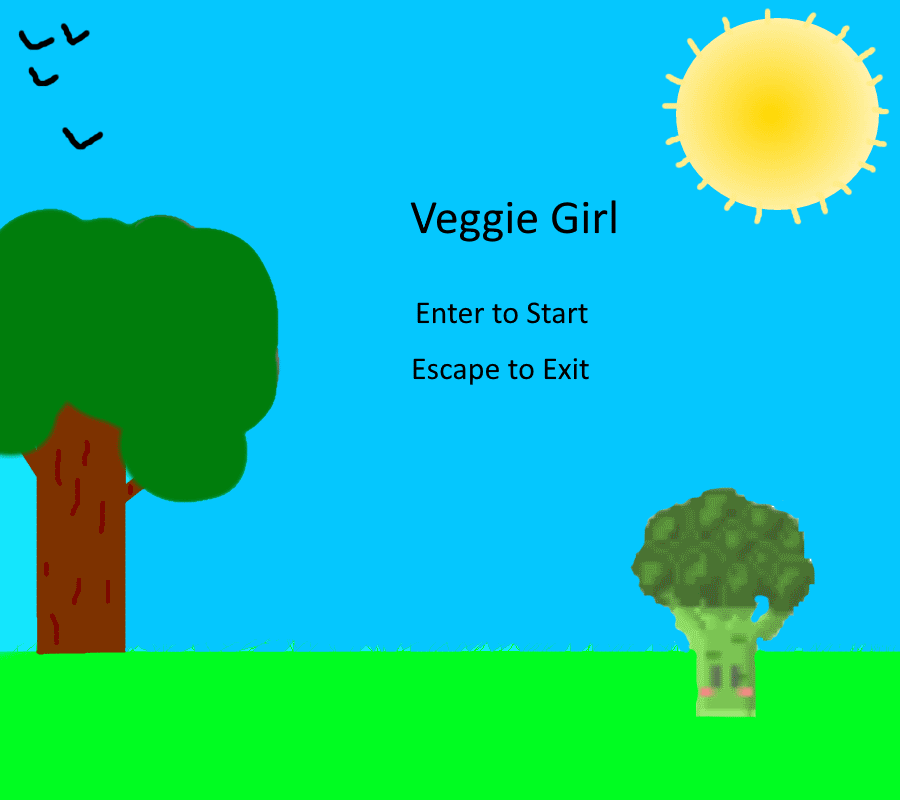
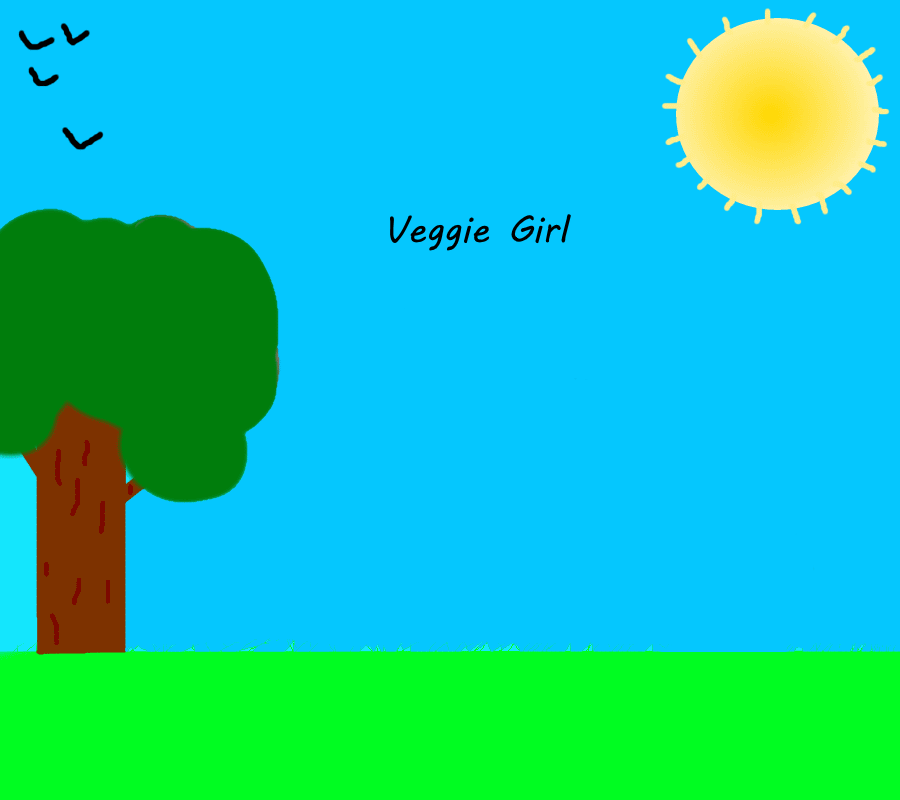
Adding end screen

diff --git a/Game.py b/Game.py
@@ -61,7 +61,7 @@ win = pygame.display.set_mode(screenSize)
 pygame.display.set_caption("Veggie Girl")
 
 screens = "menu"
-#-----------------Game Loop---------------------
+#--------------------Game Loop--------------------#
 while True:
     #--------------------Menu-----------------
     #------------Menu Setup------------
@@ -120,9 +120,35 @@ while True:
         win.blit(image, imgRect)
         pygame.display.flip()
 
+    #--------------------End Loop--------------------#
+    while screens == "end":
+        for event in pygame.event.get():
+                if event.type == pygame.QUIT:
+                    sys.exit();
+                    
+                    #Quit button code please
+                    
+                if event.key == pygame.K_ESCAPE:
+                    sys.exit();
+        win.blit(image, imgRect)
+        win.blit(startButton.image, startButton.rect)
+        pygame.display.flip()
 
-    #--------------------Game-----------------
-    #--------------Game Setup-------------
+        image = pygame.image.load("Images/Backgrounds/end2.png")
+        imgRect = image.get_rect()
+        pygame.mixer.music.stop()
+
+
+
+
+
+
+        if event.key == pygame.K_ESCAPE:
+            sys.exit();
+        win.blit(image, imgRect)
+        pygame.display.flip()
+    #--------------------  Game  --------------------#
+    #-------------------Game Setup-------------------#
     tiles, pos = loadLevel("Levels/W" + str(world) + "L" + str(lev) + ".lvl")
     veggie = Player(pos)
 
@@ -201,8 +227,10 @@ while True:
             if tile.kind == "end":
                 if veggie.endCollide(tile):
                     print (">>>>>>>>>>>>Hit End")
+                    screens = "end"
             elif tile.kind in enemyKinds:
                 if veggie.enemyCollide(tile):
+                    print("------------------------", pos)
                     veggie = Player(pos)
                     
         if veggie.screenCollide(screenSize) == "Right":

diff --git a/Screens.py b/Screens.py
@@ -8,3 +8,8 @@ def Secret(debug = False):
     if debug: print ("Waluigi Function")
     
     backgroundImage = (r"C:\Users\Student\Documents\Game Programming\Veggie Girl\Images\Backgrounds\walScreen.png")
+
+def End(debug = False):
+    if debug: print ("End Function")
+    
+    backgroundImage = (r"C:\Users\Student\Documents\Game Programming\Veggie Girl\Images\Backgrounds\end2.png")
